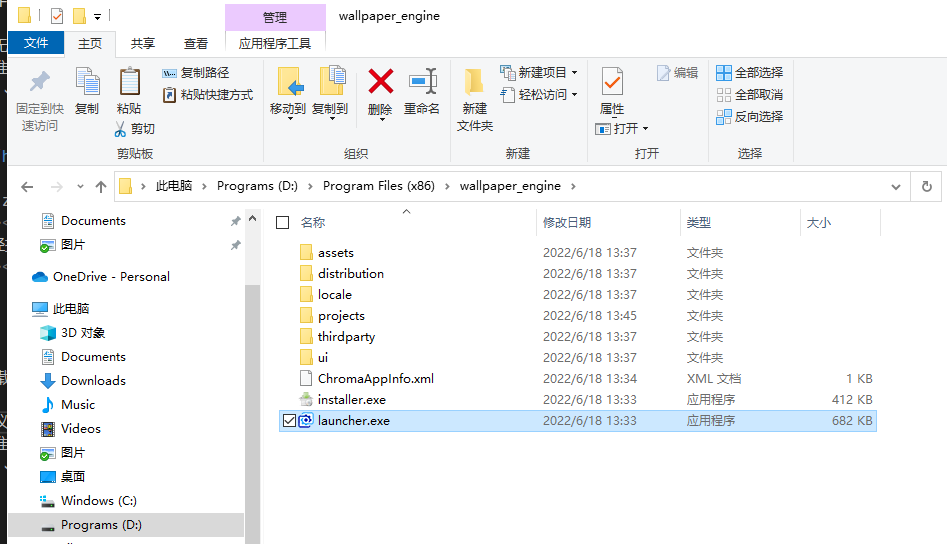
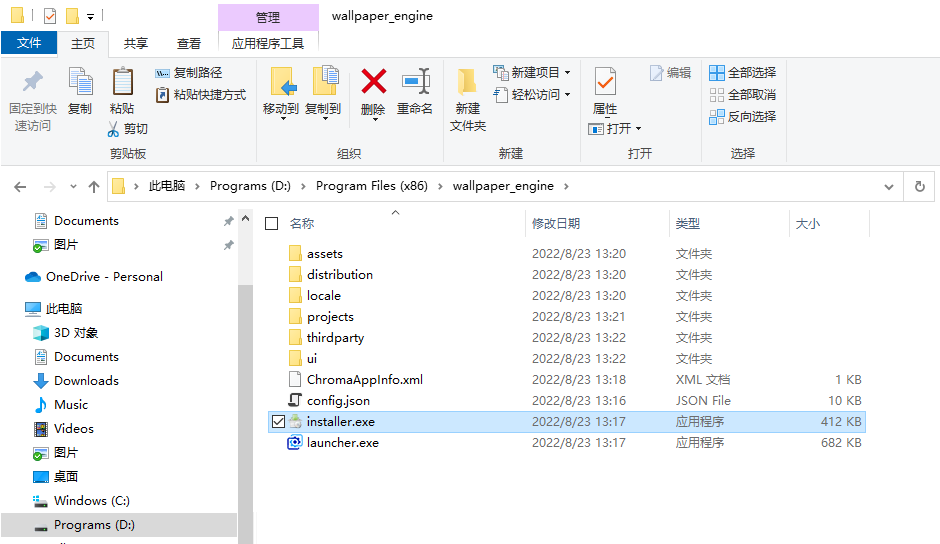
update

diff --git a/SDFZGKCD/index.html b/SDFZGKCD/index.html
@@ -68,7 +68,7 @@
                 <h2 id="What's-this">这是什么？</h2>
                 <div style="margin-left:24px">
                     <p>湖南师大附中高考倒计时壁纸 (SDFZGKCD) - 来自 G2108 李叙廷 (Ritel Takajun)</p>
-                    <p style="margin-left:24px">当前最新版本 v7.2</p>
+                    <p style="margin-left:24px">当前最新版本 v7.3</p>
                     <a href="preview">
                         点击在线预览<br />
                         <img src="preview.png" style="width: 70%" />
@@ -82,8 +82,8 @@
 
                 <h2 id="Dyslexia">阅读之前：扫除阅读障碍</h2>
                 <div style="margin-left:24px">
-                    <p>在使用者调查时我发现，无论是一窍不通的人，还是有所知晓的人，都可能出现阅读障碍。</p>
-                    <p>这可能是因为我没有足够的精力去在心理学上调整排版使该教程更易读，导致阅读障碍增多。以下是一些减少阅读障碍的建议：</p>
+                    <p>在使用者调查时我发现，无论是第一次使用的人，还是有所知晓的人，都可能出现阅读障碍。</p>
+                    <p>这可能是因为我没有足够的精力去调整排版使该教程更易读，导致阅读障碍增多。以下是一些减少阅读障碍的建议：</p>
                     <p>教程的每一步都写得很清楚，请耐心阅读，认清每一句的句意。</p>
                     <p>不要主观臆断、画蛇添足；不要盲目跳读，即使你有所了解。</p>
                     <br />
@@ -94,22 +94,26 @@
                 <div style="margin-left:24px">
                     <p><a href="https://github.com/Little-Down/SDFZGKCD/releases">下载链接在此处</a></p>
 
-                    <p><strong>还未拥有</strong> Wallpaper Engine ？在上方链接里下载 wallpaper_engine.zip 即可</p>
+                    <p><strong>还未拥有</strong> Wallpaper Engine ？请在上方链接里下载 wallpaper_engine.zip</p>
                     <p style="margin-left:16px;">• &nbsp; 如何配置和使用该软件？ 点击前往 <a href="#Use-Wallpaper-Engine">使用 Wallpaper Engine</a></p>
                     <p><strong>已经拥有</strong>而无需下载 Wallpaper Engine ? 在上方链接里下载 SDFZGKCD.zip 即可</p>
                     <p style="margin-left:16px;">• &nbsp; 如何个性化设置该壁纸？ 点击前往 <a href="#Setup-SDFZGKCD">设置 SDFZGKCD</a></p>
 
                     <h4>更新指南</h4>
                     <div style="margin-left:24px">
-                        <h5>v7.x → v7.2 : </h5>
-                        <p style="margin-left:16px;">文件路径参见 <a href="#Setup-SDFZGKCD">设置 SDFZGKCD</a> 。需要更新"SDFZGKCD.html" "project.json" "sdfzgkcd.js"，并在原 Properties.json 中加上一行“ "background_image": "none", ”（注意逗号）。参见 <a href="#json">设置 SDFZGKCD - 设置JSON</a> 。</p>
-
-                        <h5>v6.x → v7.x : </h5>
-                        <p style="margin-left:16px;">全部文件需要更新，可将原 schedule.json 中课表复制到新 Properties.json ，并删除原 schedule.json 。</p>
+                        <h5>任意旧版本 → v7.3+ : </h5>
+                        <p style="margin-left:16px;">新学年，新启动。请删除全部文件并重新配置 SDFZGKCD；也可以删除并更新 Wallpaper Engine，但这不重要。</p>
                     </div>
 
                     <h4>最近更新</h4>
                     <div style="margin-left:24px">
+                        <h5>v7.3 更新说明：</h5>
+                        <div style="margin-left:24px">
+                            <p style="margin-left:16px;">•<span style="margin-left:16px;">新学年，新启动：优化依赖文件结构。其中，将原 Properties.json 更名为 Settings.json 。</span></p>
+                            <p style="margin-left:16px;">•<span style="margin-left:16px;">多语言星期改为使用缩写</span></p>
+                            <p style="margin-left:16px;">•<span style="margin-left:16px;">修补了一个小 bug</span></p>
+                        </div>
+
                         <h5>v7.2 更新说明：</h5>
                         <div style="margin-left:24px">
                             <p style="margin-left:16px;">•<span style="margin-left:16px;"><strong>增加设置背景图片功能</strong>（请使用暗色背景，否则很难看）。</span></p>
@@ -141,15 +145,15 @@
                     <p>将 wallpaper_engine.zip 下载下来之后，将其<strong>解压并放到</strong>一个合适的位置。我推荐 "D:\Program Files (x86)\"。当然，放在任何你喜欢的地方也可以。如图。</p>
                     <img src="folder.png" />
                     <p>一定要放在一个合适的位置。我建议在第一次使用之后就不要再更改它的位置了。</p>
-                    <p>确定好了之后，双击 launcher.exe 运行程序。你可以建立一个 launcher.exe 的快捷方式，放在桌面或其他地方，方便日后使用。</p>
+                    <p>确定好了之后，双击上图中的 launcher.exe 运行程序。你可以建立一个 launcher.exe 的快捷方式，放在桌面或其他地方，方便日后使用。</p>
                     <p>短暂的初始化过后，Wallpaper Engine 启动了。如图。</p>
                     <img src="init.png" />
                     <p>其中可能会显示 Default (English)，但这无关紧要，点开下拉菜单，选择 Simplified Chinese (简体中文) 即可。</p>
-                    <p>下面是推荐设置。</p>
+                    <p>下面是推荐设置。(其实默认设置也就是这样的，点击下一步即可。)</p>
                     <img src="setting1.png" />
-                    <p>LED 效果是没有用的，因为你没有连接支持的彩色灯光；自动启动的 设置高优先级 能让开机时壁纸启动的更快，点不点都可以。</p>
+                    <p>LED 效果是没有用的，因为你没有连接支持的彩色灯光.</p>
                     <img src="setting2.png" />
-                    <p>第一次打开浏览壁纸界面可能会卡住？点一下别的软件窗口再点回来就好。</p>
+                    <p>自动启动的 设置高优先级 能让开机时壁纸启动的更快，点不点都可以。</p>
                     <br />
                     <p>接下来点击界面右上角的 设置</p>
                     <img src="setting3.png" style="width: 85%;" />
@@ -168,12 +172,12 @@
 
                 <h2 id="Setup-SDFZGKCD">设置 SDFZGKCD</h2>
                 <div style="margin-left:24px">
-                    <p>如果<strong>你还没有</strong>把壁纸导入 Wallpaper Engine（在上面下载的软件里会自带，<strong>请跳过</strong>这一句话），打开软件所在文件夹，依次进入 projects\myprojects 文件夹，将壁纸文件夹放入此文件夹，如图。</p>
+                    <p>如果<strong>你还没有</strong>把壁纸导入 Wallpaper Engine（在上面下载的 wallpaper_engine.zip 里会自带，<strong>请跳过这一句话</strong>），打开软件所在文件夹，依次进入 projects\myprojects 文件夹，将壁纸文件夹放入此文件夹，如图。</p>
                     <img src="folder1.png" />
                     <br /> <br />
                     <p>如果<strong>已经拥有</strong>该壁纸，那么就在软件页面右键单击该壁纸，点击“在资源管理器中打开”（或者找到上图路径也可以）。</p>
                     <img src="open.png" style="width: 85%;" />
-                    <p>使用记事本打开 Properties.json 。（如果你有其他的编辑器也可以。）</p>
+                    <p>使用记事本打开 Settings.json 。（如果你有其他的编辑器也可以。）</p>
                     <img src="open2.png" />
                     <p>该文件内容以及说明如图。</p>
                     <img id="json" src="json1.png" />
